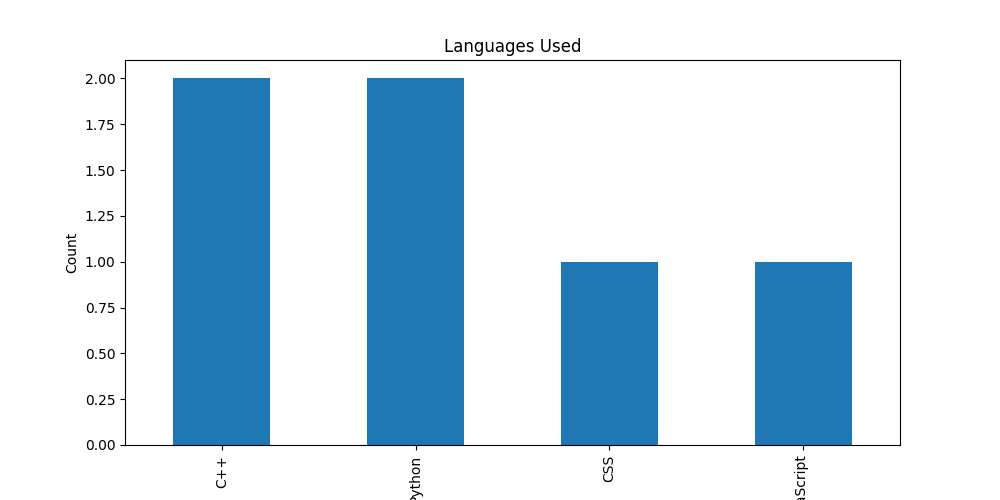
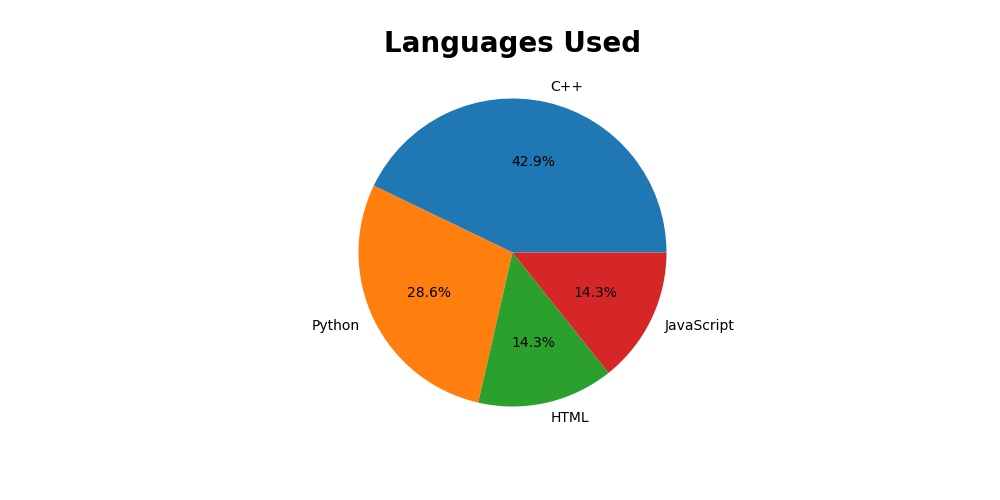
updated

diff --git a/static/js/script.js b/static/js/script.js
@@ -1,7 +1,13 @@
+
 // function analyze() {
 //     const username = document.getElementById('username').value;
 //     fetch(`/analyze?username=${username}`)
-//         .then(response => response.json())
+//         .then(response => {
+//             if (!response.ok) {
+//                 throw new Error('Network response was not ok');
+//             }
+//             return response.json();
+//         })
 //         .then(data => {
 //             const chartsDiv = document.getElementById('charts');
 //             chartsDiv.innerHTML = '';
@@ -11,12 +17,15 @@
 //                     img.src = chart;
 //                     chartsDiv.appendChild(img);
 //                 });
+//             } else if (data.error) {
+//                 chartsDiv.innerHTML = `<p>${data.error}</p>`;
 //             } else {
 //                 chartsDiv.innerHTML = '<p>User not found.</p>';
 //             }
 //         })
 //         .catch(error => {
-//             console.error('Error:', error);
+//             const chartsDiv = document.getElementById('charts');
+//             chartsDiv.innerHTML = `<p>Error: ${error.message}</p>`;
 //         });
 // }
 
@@ -31,8 +40,14 @@ function analyze() {
         })
         .then(data => {
             const chartsDiv = document.getElementById('charts');
+            //const tableDiv = document.getElementById('repo-table');
+            
+            // Clear previous content
             chartsDiv.innerHTML = '';
+            //tableDiv.innerHTML = '';
+
             if (data.charts) {
+                // Display charts
                 data.charts.forEach(chart => {
                     const img = document.createElement('img');
                     img.src = chart;
@@ -43,10 +58,51 @@ function analyze() {
             } else {
                 chartsDiv.innerHTML = '<p>User not found.</p>';
             }
-        })
+
+            // if (data.table) {
+            //     tableDiv.innerHTML = data.table;
+            // } else if (data.error) {
+            //     chartsDiv.innerHTML = `<p>${data.error}</p>`;
+            // } else {
+            //     chartsDiv.innerHTML = '<p>User not found.</p>';
+            // }
+
+        //     if (data.table) {
+        //         // Create table
+        //         const table = document.createElement('table');
+        //         table.border = '1';
+
+        //         // Create table header
+        //         const thead = document.createElement('thead');
+        //         const headerRow = document.createElement('tr');
+        //         ['Repository Name', 'Commits', 'Forks', 'Stars'].forEach(header => {
+        //             const th = document.createElement('th');
+        //             th.textContent = header;
+        //             headerRow.appendChild(th);
+        //         });
+        //         thead.appendChild(headerRow);
+        //         table.appendChild(thead);
+
+        //         // Create table body
+        //         const tbody = document.createElement('tbody');
+        //         data.table.forEach(repo => {
+        //             const row = document.createElement('tr');
+        //             [repo.name, repo.commits, repo.forks, repo.stars].forEach(cellData => {
+        //                 const td = document.createElement('td');
+        //                 td.textContent = cellData;
+        //                 row.appendChild(td);
+        //             });
+        //             tbody.appendChild(row);
+        //         });
+        //         table.appendChild(tbody);
+
+        //         tableDiv.appendChild(table);
+        //     }
+         })
         .catch(error => {
             const chartsDiv = document.getElementById('charts');
+            //const tableDiv = document.getElementById('repo-table');
             chartsDiv.innerHTML = `<p>Error: ${error.message}</p>`;
+            //tableDiv.innerHTML = '';
         });
 }
-

diff --git a/static/css/style.css b/static/css/style.css
@@ -1,36 +1,79 @@
-* body {
+
+ body {
     font-family: Arial, sans-serif;
     background-color: #f4f4f4;
     margin: 0;
     padding: 0;
 }
 
-.container {
+.header-container {
+    background-color: black;
+    padding: 14px;
+    text-align: right;
+}
+
+.home-link {
+    color: #fff;
+    text-decoration: none;
+    margin-right: 40px;
+    font-size: 18px;
+}
+
+.home-link:hover {
+    text-decoration: underline;
+}
+
+.home-icon {
+    width: 40px;
+    height: auto;
+    margin-right: 10px;
+    vertical-align: middle;
+}
+
+/* .about-link {
+    color: #fff;
+    text-decoration: none;
+    margin-right: 80px;
+    font-size: 18px;
+}
+
+.about-link:hover {
+    text-decoration: underline;
+}
+
+.about-icon {
+    width: 40px;
+    height: auto;
+    margin-right: 10px;
+    vertical-align: middle;
+} */
+
+
+.search-section {
     width: 80%;
-    margin: auto;
-    overflow: hidden;
-    padding: 20px;
+    margin: 20px auto;
+    padding: 1px;
     background: #fff;
     border-radius: 10px;
-    box-shadow: 0 0 10px rgba(0, 0, 0, 0.1);
-    margin-top: 50px;
+    box-shadow: 0 0 20px rgba(0, 0, 0, 0.3);
+    text-align: center;
 }
 
 h1 {
-    text-align: center;
     color: #333;
+    margin-bottom: 20px;
 }
 
 input[type="text"] {
-    width: 70%;
+    width: 50%;
     padding: 10px;
-    margin: 10px 0;
+    margin: 16px 2px;
     border: 1px solid #ddd;
     border-radius: 5px;
 }
 
 button {
-    padding: 10px 20px;
+    padding: 10px 28px;
     border: none;
     background: #333;
     color: #fff;
@@ -42,8 +85,49 @@ button:hover {
     background: #555;
 }
 
-#charts img {
-    width: 100%;
-    margin: 10px 0;
-} 
+#charts {
+    width: 80%;
+    margin-left: 220px;
+}
 
+#charts img {
+    width: 80%;
+    margin: 20px 0;
+    padding: 20px;
+    background: #fff;
+    border-radius: 10px;
+    box-shadow: 0 0 15px rgba(0, 0, 0, 0.2);
+}
+
+#repo-table {
+    width: 80%;
+    margin-left: 220px;
+    margin-top: 40px; 
+}
+
+#repo-table table {
+    width: 90%;
+    border-collapse: collapse;
+    background: #fff;
+    border-radius: 10px;
+    box-shadow: 0 0 15px rgba(0, 0, 0, 0.2);
+}
+
+#repo-table th, #repo-table td {
+    padding: 10px;
+    text-align: left;
+    border: 1px solid #ddd;
+}
+
+#repo-table th {
+    background-color: #f4f4f4;
+    font-weight: bold;
+}
+
+#repo-table tr:nth-child(even) {
+    background-color: #f9f9f9;
+}
+
+#repo-table tr:hover {
+    background-color: #f1f1f1;
+}

diff --git a/templates/index.html b/templates/index.html
@@ -1,3 +1,4 @@
+
 <!DOCTYPE html>
 <html lang="en">
 <head>
@@ -5,19 +6,34 @@
     <meta name="viewport" content="width=device-width, initial-scale=1.0">
     <title>GitHub Analyzer</title>
     <link rel="stylesheet" href="/static/css/style.css">
-    
-
 </head>
 <body>
-    <div class="container">
+
+    <header>
+        <div class="header-container">
+            <a href="{{ url_for('base') }}" class="home-link">
+                <img src="/static/images/home-icon.png" alt="Home" class="home-icon"> HOME
+            </a>
+        </div>
+    </header>
+
+    <div class="search-section">
         <h1>GitHub Analyzer</h1>
         <input type="text" id="username" placeholder="Enter GitHub username">
         <button onclick="analyze()">Analyze</button>
-        <div id="charts"></div>
     </div>
+    
+    <div id="charts">
+    </div>
+
+    <!-- <div id="repo_table">
+    </div> -->
+    
+
     <script src="/static/js/script.js"></script>
 </body>
 </html>
+
 
 
 

diff --git a/main.py b/main.py
@@ -26,18 +26,25 @@ def process_repos_data(repos_data):
 
 
 
-def plot_and_save(data, title, xlabel, ylabel, filename):
-
+def plot_and_save(data, title, xlabel, ylabel, filename, chart_type='line'):
     os.makedirs('static/images', exist_ok=True)
     plt.figure(figsize=(10, 5))
-    data.plot(kind='bar')
-    plt.title(title)
-    plt.xlabel(xlabel)
-    plt.ylabel(ylabel)
-    plt.xticks(rotation=90)
+    
+    if chart_type == 'pie':
+        data.plot(kind='pie', autopct='%1.1f%%')
+        plt.title(title, fontsize=20, fontweight='bold')
+        plt.ylabel('')  # Hide the y-label for pie charts
+    else:
+        data.plot(kind=chart_type)
+        plt.title(title, fontsize=20, fontweight='bold')
+        plt.xlabel(xlabel)
+        plt.ylabel(ylabel)
+        plt.xticks(rotation=35, ha='right')
+    
     plt.savefig(os.path.join('static/images', f'{filename}.png'))
     plt.close()
     return f'/static/images/{filename}.png'
+
 
 
 
@@ -46,6 +53,12 @@ def generate_charts(username):
     repos_df = process_repos_data(repos_data)
     
     charts = []
+
+    # Languages used in repositories
+    languages = repos_df['language'].value_counts()
+    languages_chart = plot_and_save(languages, 'Languages Used', '', '', 'languages', 'pie')
+    charts.append(languages_chart)
+
     # Number of stars per repository
     stars_chart = plot_and_save(repos_df.set_index('name')['stargazers_count'], 'Stars per Repository', 'Repository', 'Stars', 'stars')
     charts.append(stars_chart)
@@ -58,12 +71,24 @@ def generate_charts(username):
     issues_chart = plot_and_save(repos_df.set_index('name')['open_issues_count'], 'Open Issues per Repository', 'Repository', 'Open Issues', 'issues')
     charts.append(issues_chart)
     
-    # Languages used in repositories
-    languages = repos_df['language'].value_counts()
-    languages_chart = plot_and_save(languages, 'Languages Used', 'Language', 'Count', 'languages')
-    charts.append(languages_chart)
     
     return charts
+
+
+def generate_table(username):
+    _, repos_data = fetch_user_data(username)
+    repos_df = process_repos_data(repos_data)
+    
+    # Create HTML table
+    table_html = '<table class="table table-bordered"><thead><tr><th>Repository Name</th><th>Commits</th><th>Forks</th><th>Stars</th></tr></thead><tbody>'
+    
+    for _, row in repos_df.iterrows():
+        table_html += f'<tr><td>{row["name"]}</td><td>{row["commits_count"]}</td><td>{row["forks_count"]}</td><td>{row["stargazers_count"]}</td></tr>'
+    
+    table_html += '</tbody></table>'
+    
+    return table_html
+
 
 
 @app.route('/')
@@ -82,12 +107,15 @@ def analyze():
         return jsonify({'error': 'Invalid username'}), 400
     try:
         charts = generate_charts(username)
+        #table_html = generate_table(username)
+
         return jsonify({'charts': charts})
+    
     except requests.exceptions.RequestException as e:
         return jsonify({'error': f'Error fetching data from GitHub: {str(e)}'}), 500
     except Exception as e:
         return jsonify({'error': f'Internal server error: {str(e)}'}), 500
-
+    
 
 if __name__ == "__main__":
     app.run(debug=True)
